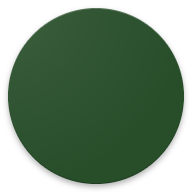
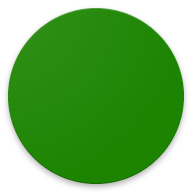
color-update

diff --git a/blagodarie/code.js b/blagodarie/code.js
@@ -843,7 +843,7 @@ function initializeDisplay() {
 			if (d.target.nodeType == NODE_TYPES.USER || d.target.nodeType == NODE_TYPES.FRIEND || d.target.nodeType == NODE_TYPES.PROFILE || d.source.nodeType == NODE_TYPES.TRUST || d.source.nodeType == NODE_TYPES.MISTRUST || d.target.nodeType == NODE_TYPES.FILTERED){
 				if (d.is_trust == d.reverse_is_trust || d.source.nodeType == NODE_TYPES.TRUST || d.source.nodeType == NODE_TYPES.MISTRUST){
 					if(d.is_trust || d.source.nodeType == NODE_TYPES.TRUST){
-						return "#345334";
+						return "#1c8401";
 					} else {
 						return "#ff0000";
 					}
@@ -851,7 +851,7 @@ function initializeDisplay() {
 					return "url(#grad_from_" + d.source.id + "_to_" + d.target.id + ")";
 				}
 			} else {
-				return "#00ff00";
+				return "#345334";
 			}
 		})
 		.attr("marker-end", d => {
@@ -1025,7 +1025,7 @@ function initDefs(){
 		.attr("markerHeight", "20")
 		.attr("orient", "auto")
 		.append("path")
-		.attr("fill", "#00ff00")
+		.attr("fill", "#345334")
 		.attr("d", "M0,-5 L10,0 L0,5");
 	
 	defs.append("marker")
@@ -1038,7 +1038,7 @@ function initDefs(){
 		.attr("markerHeight", "20")
 		.attr("orient", "auto")
 		.append("path")
-		.attr("fill", "#345334")
+		.attr("fill", "#1c8401")
 		.attr("d", "M0,-5 L10,0 L0,5");
 		
 	defs.append("marker")
@@ -1064,7 +1064,7 @@ function initDefs(){
 		.attr("markerHeight", "20")
 		.attr("orient", "auto")
 		.append("path")
-		.attr("fill", "#00ff00")
+		.attr("fill", "#345334")
 		.attr("d", "M0,-5 L10,0 L0,5");
 		
 	defs.append("clipPath")
